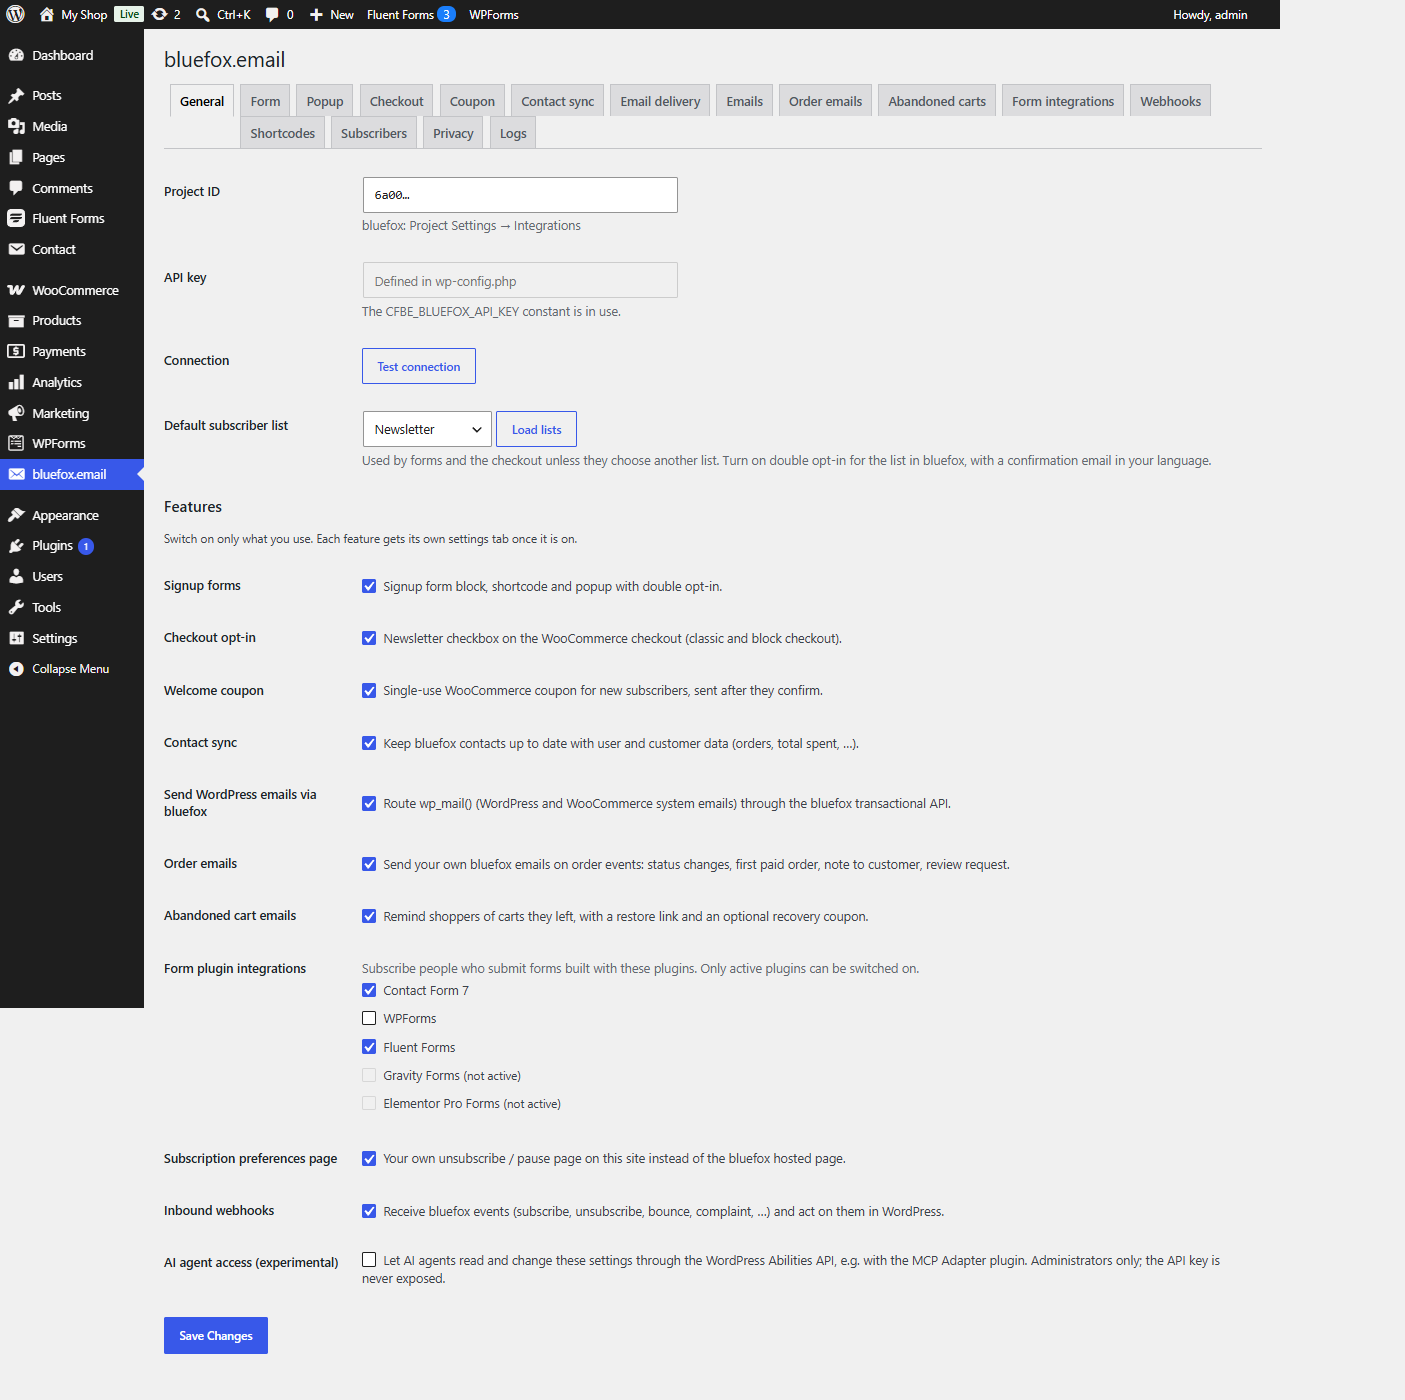
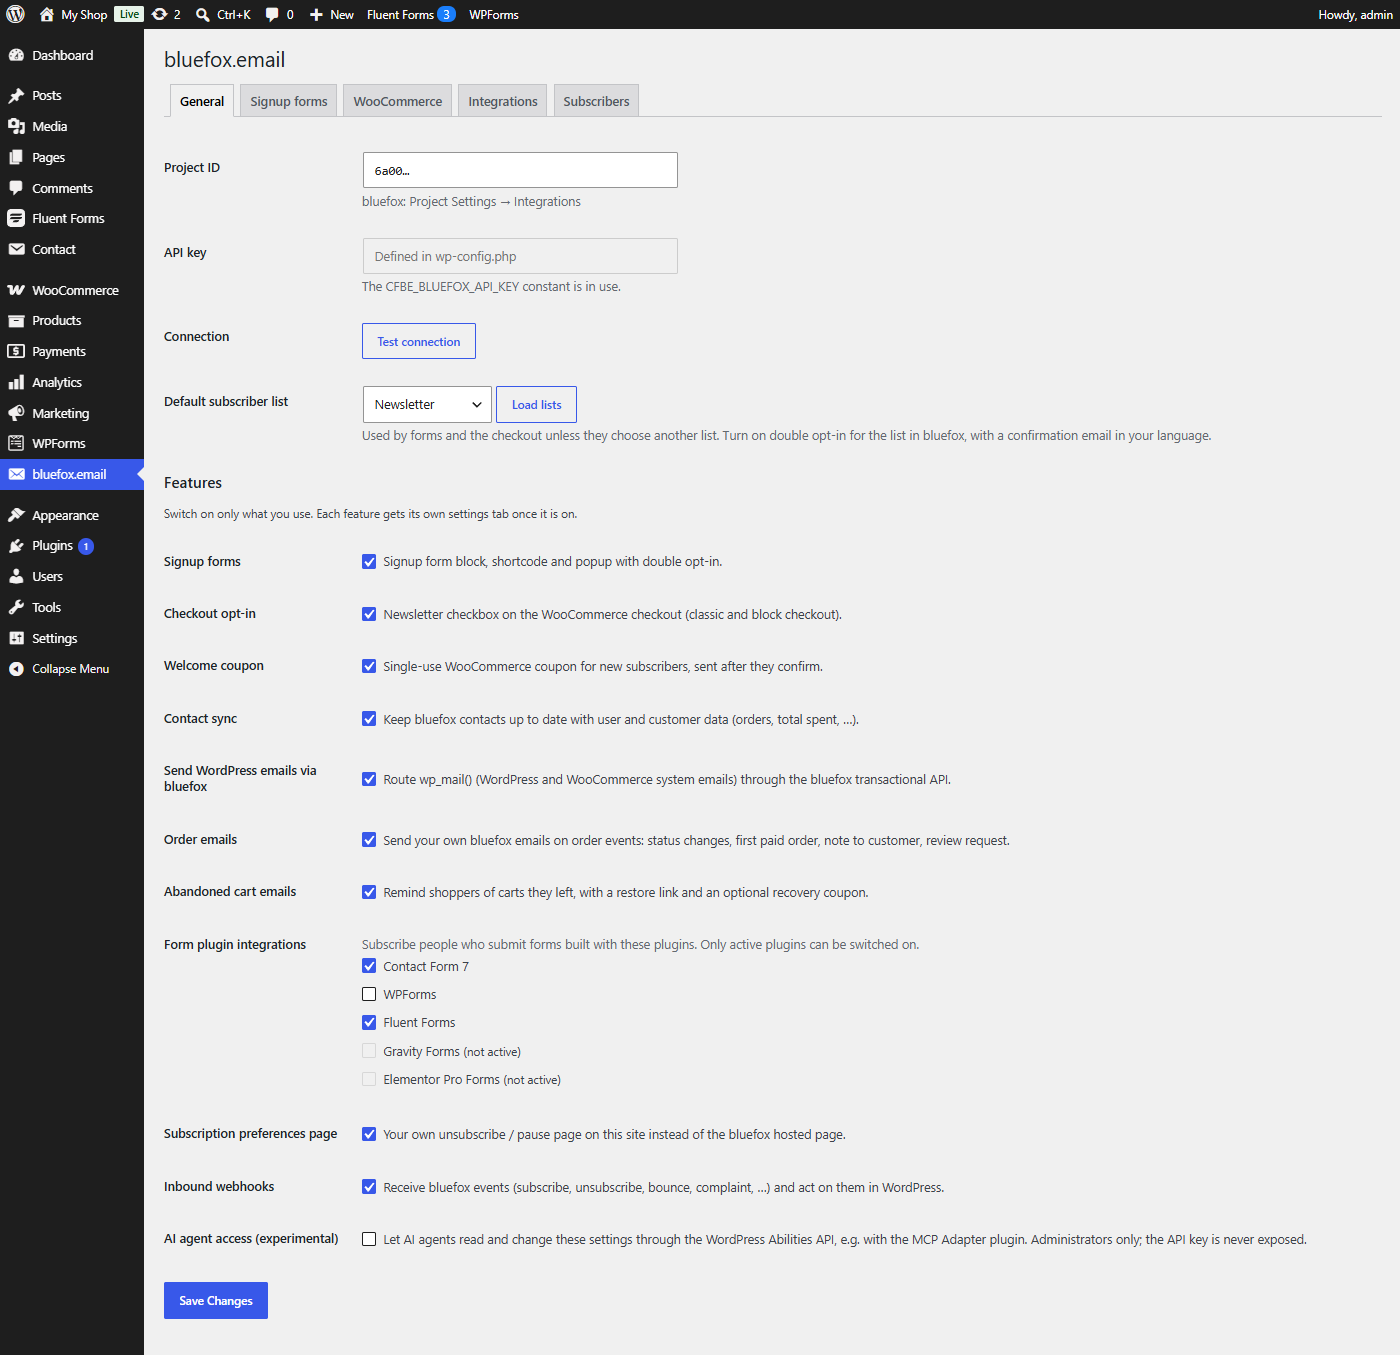
Docs: screenshots with the grouped admin navigation, navigation overview image

diff --git a/docs/settings/index.md b/docs/settings/index.md
@@ -4,6 +4,8 @@ All settings are under **bluefox.email** in the wp-admin menu (`wp-admin/admin.p
 
 The tabs are grouped under five main tabs; the sub-tabs of the active group are shown as links below them:
 
+![Grouped settings navigation](../assets/images/settings-navigation.png)
+
 | Main tab | Sub-tabs |
 |---|---|
 | General | General |
